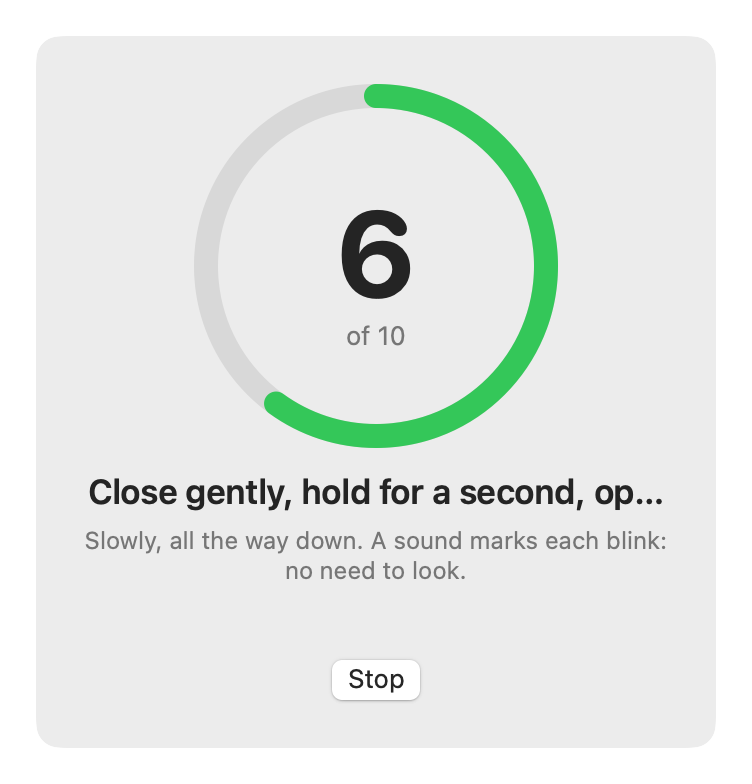
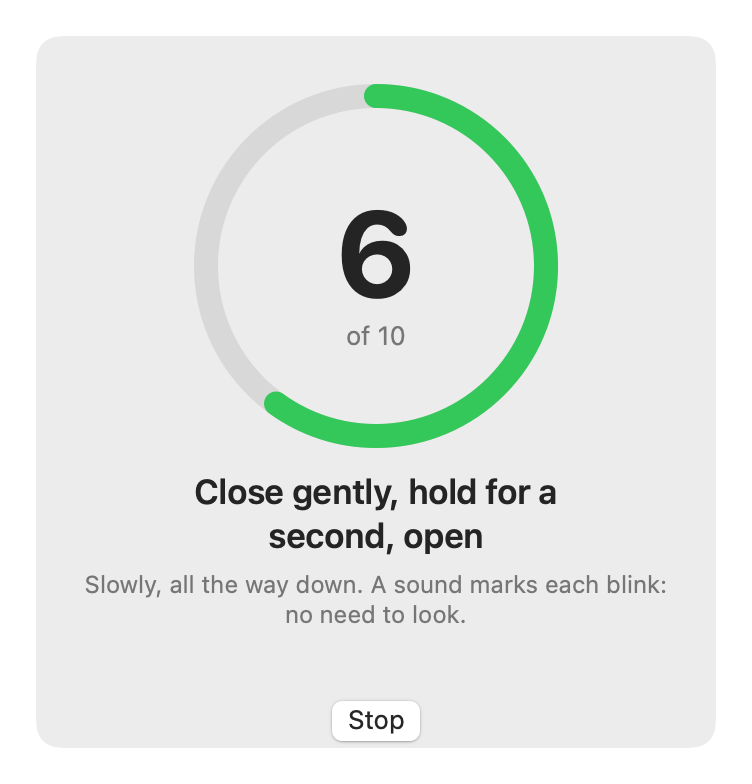
The pictures drawn again, a heading that was cut, and the README's test counts
Settings gained rows (General, Blink Rate), so its pictures in the README are
rendered again. The blink break's heading was cut with three dots in its
picture: it now takes two lines, and so does the timer's.

Changed region(s): [[0.0918, 0.6122, 0.887, 0.7959], [0.4588, 0.8571, 0.5505, 0.949], [0.7952, 0.6122, 0.887, 0.6429]]

diff --git a/Sources/BlinkMonitor/MenuBar/RoutineSessionView.swift b/Sources/BlinkMonitor/MenuBar/RoutineSessionView.swift
@@ -56,7 +56,10 @@ struct RoutineSessionView: View {
 
             VStack(spacing: 6) {
                 Text(running != nil ? (routine?.title ?? "Timer") : shown != nil ? "Done" : "No timer is running")
-                    .textStyle(.title2, weight: .semibold) .multilineTextAlignment(.center)
+                    .textStyle(.title2, weight: .semibold)
+                    // On two lines when it has to be: it was cut with three dots.
+                    .multilineTextAlignment(.center)
+                    .fixedSize(horizontal: false, vertical: true)
                 Text(note(running: running != nil, finished: shown != nil, week: week))
                     .textStyle(.callout)
                     .foregroundStyle(.secondary)

diff --git a/Sources/BlinkMonitor/MenuBar/BlinkBreakView.swift b/Sources/BlinkMonitor/MenuBar/BlinkBreakView.swift
@@ -62,7 +62,10 @@ struct BlinkBreakView: View {
 
             VStack(spacing: 6) {
                 Text(exercise.isDone ? "Done" : "Close gently, hold for a second, open")
-                    .textStyle(.title2, weight: .semibold) .multilineTextAlignment(.center)
+                    .textStyle(.title2, weight: .semibold)
+                    // On two lines when it has to be: it was cut with three dots.
+                    .multilineTextAlignment(.center)
+                    .fixedSize(horizontal: false, vertical: true)
                 Text(note(done: exercise.isDone))
                     .textStyle(.callout)
                     .foregroundStyle(.secondary)

diff --git a/README.md b/README.md
@@ -528,8 +528,8 @@ Sources/BlinkUI          the SwiftUI views and the voice that are not tied to on
 Sources/BlinkMonitor     the menu-bar app: its setup, its windows, and its demo
 Sources/BlinkTrain       the tool that runs the app's trainer on the comparison's trainings
 Sources/BlinkReplay      the tool that replays recorded frames through the eye finding, and counts
-Tests/BlinkCoreTests     237 tests of the rules and of the trainer (Swift Testing)
-Tests/BlinkMonitorTests  125 tests of the app itself: its model, its setup, its choices, its words, its clock, its breaks, its routines, the demo, where it is installed
+Tests/BlinkCoreTests     258 tests of the rules and of the trainer (Swift Testing)
+Tests/BlinkMonitorTests  141 tests of the app itself: its model, its setup, its choices, its words, its clock, its breaks, its routines, the demo, where it is installed
 training/                PyTorch training, Core ML conversion, labelling, evaluation and comparison tools, 27 tests
 scripts/                 app bundling, the installer's disk image, prerequisite check, icon drawing, manifest repair
 docs/                    how it works, the research on blink rates, lessons, development notes
